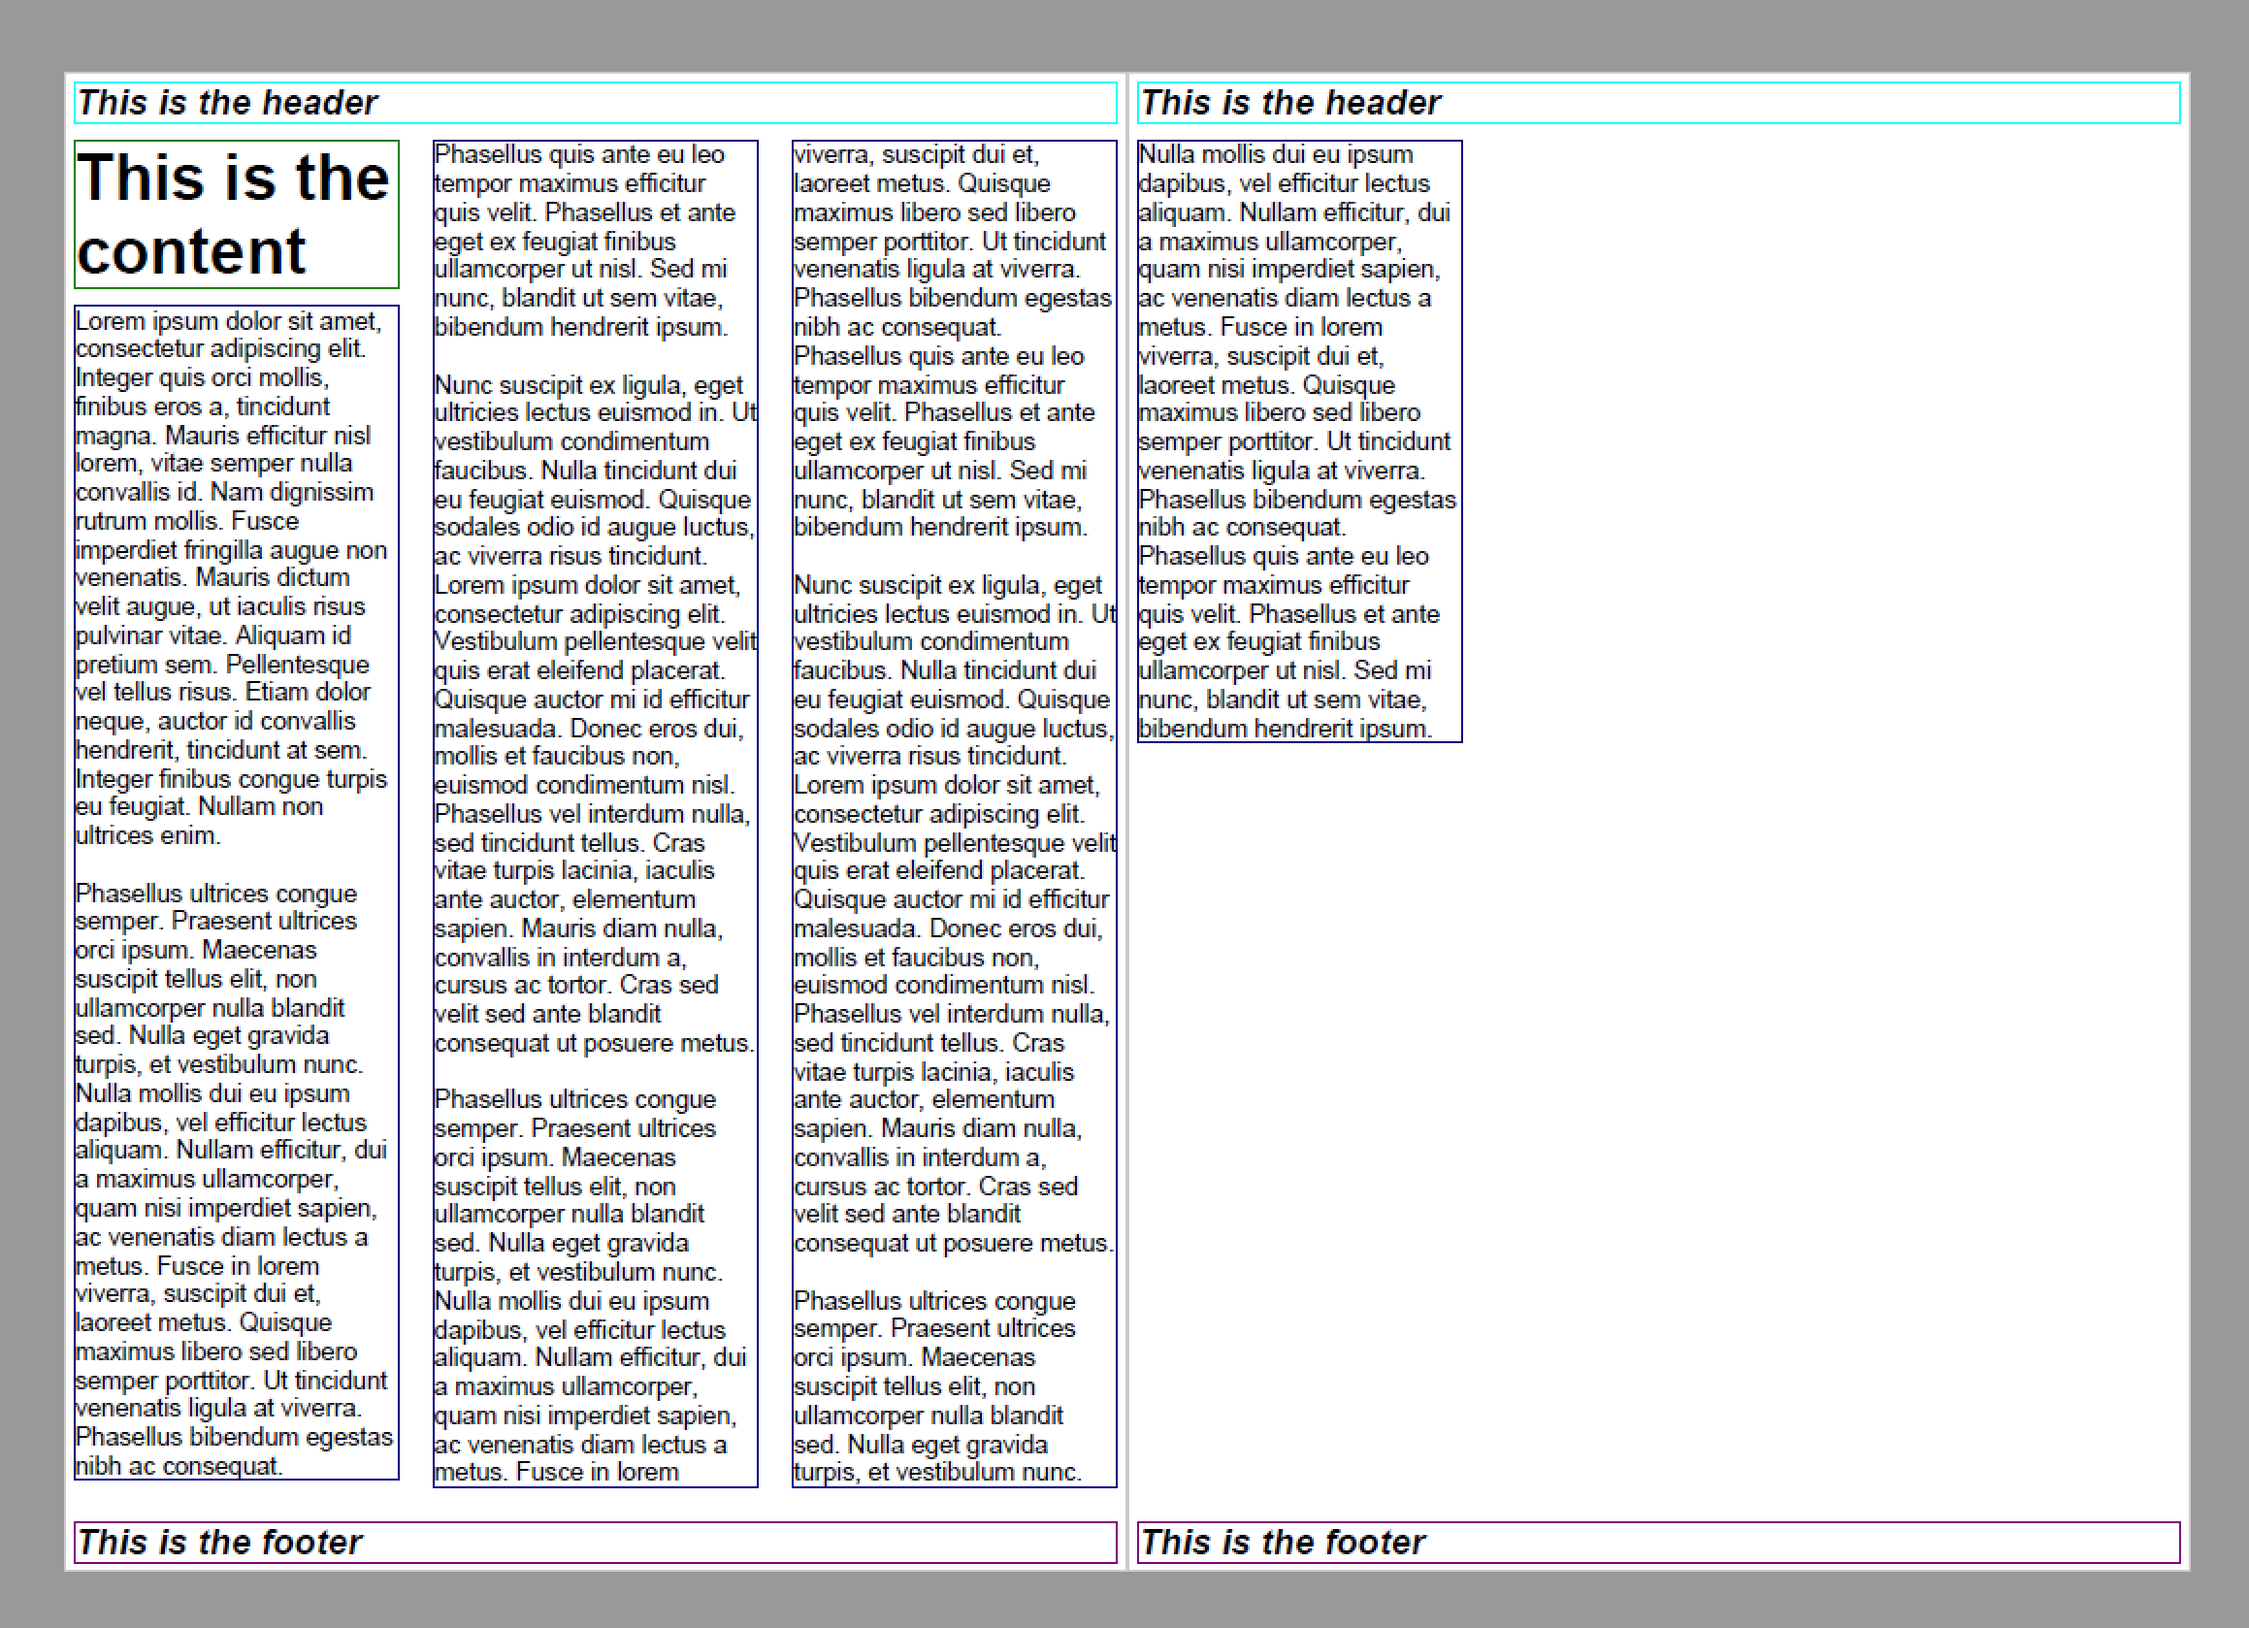
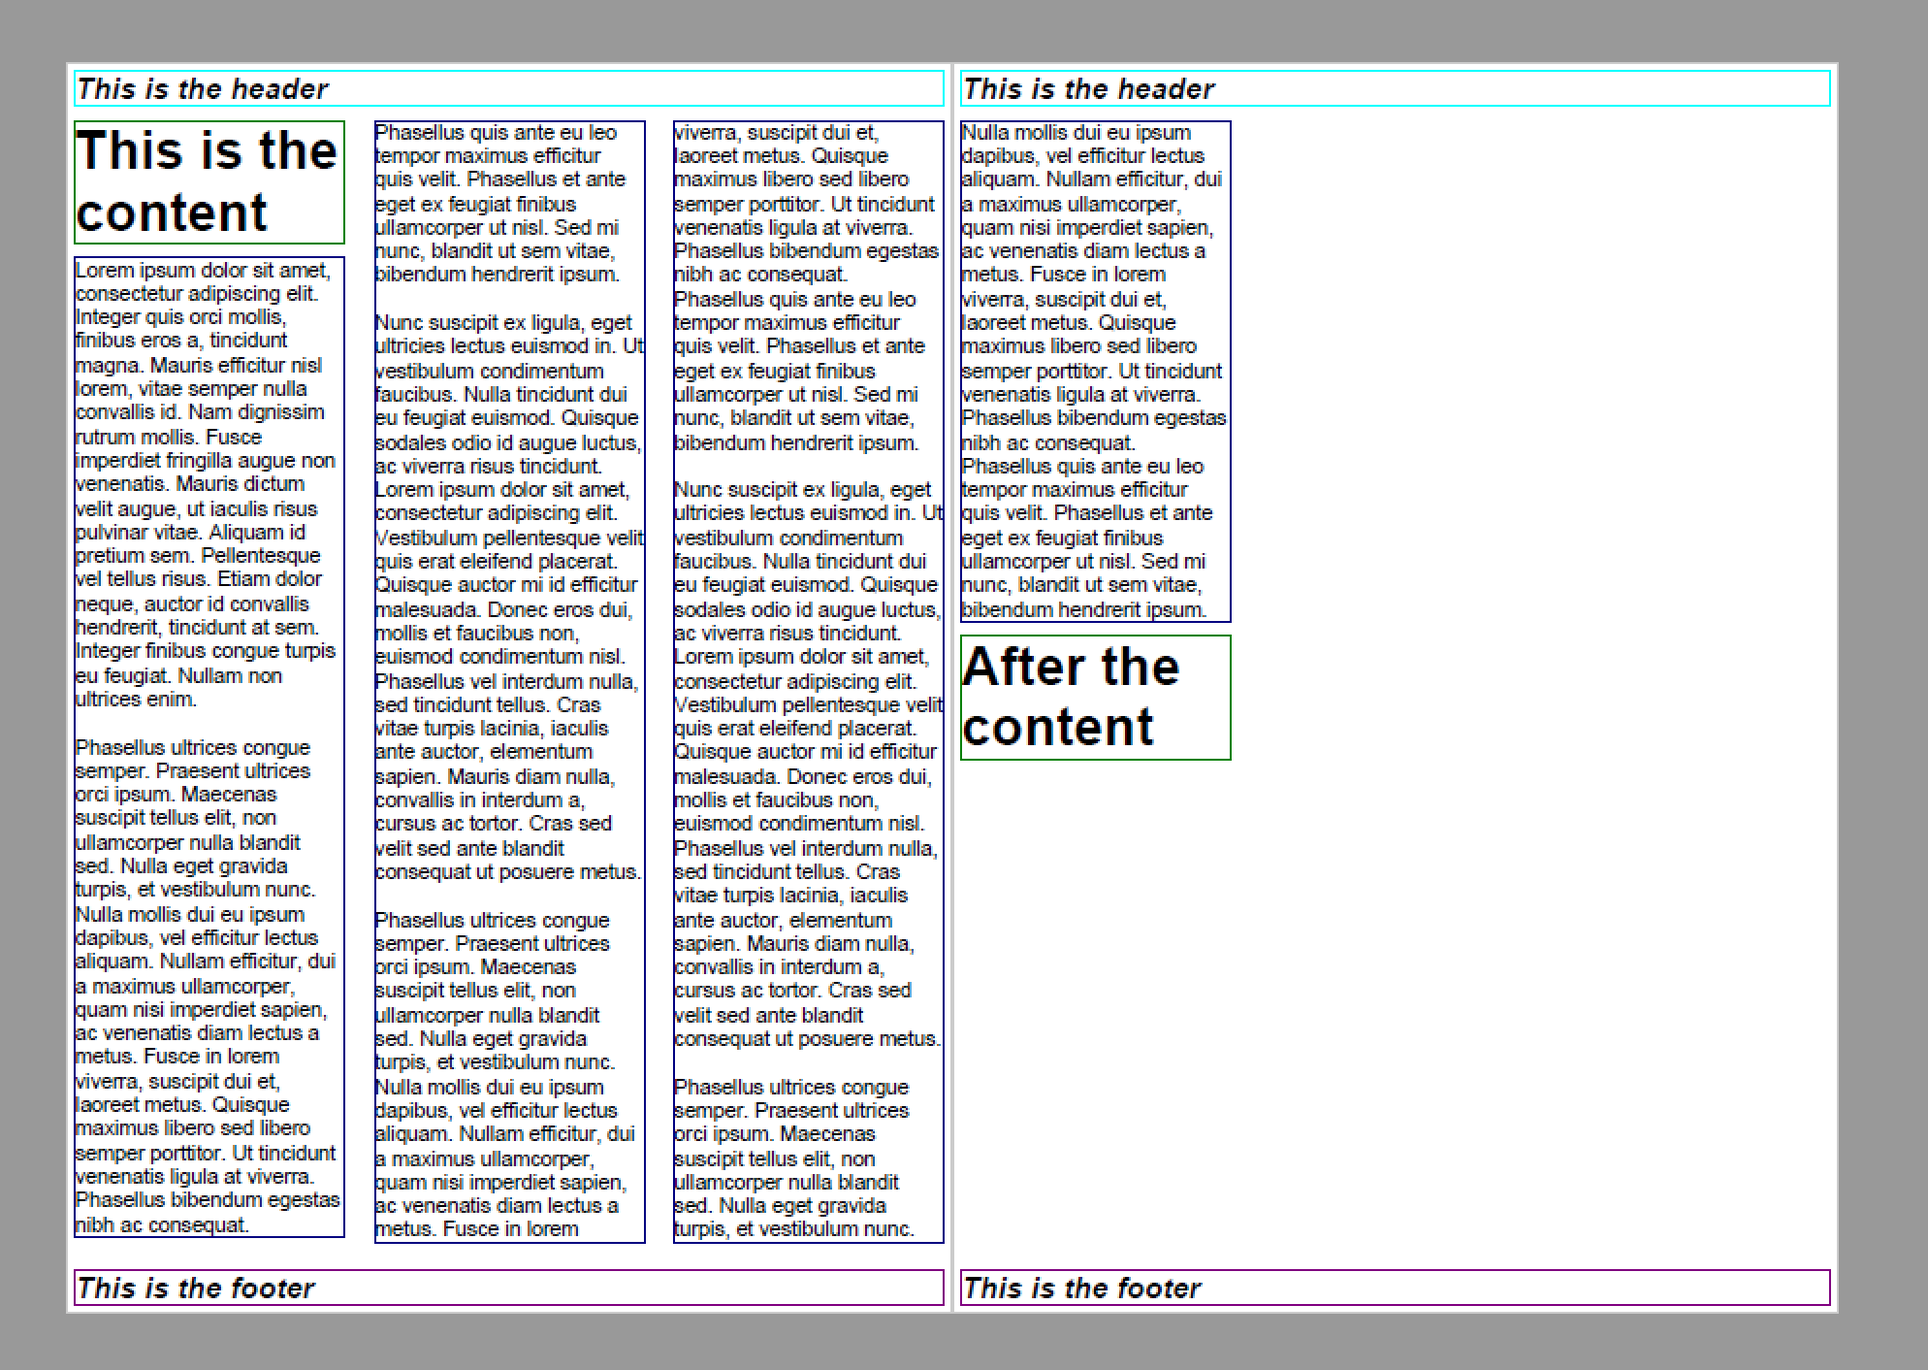
Documentation updates for columns.

Changed region(s): [[0.0312, 0.0312, 0.998, 0.966]]

diff --git a/docs/document_columns.rst b/docs/document_columns.rst
@@ -7,8 +7,8 @@ Scryber supports flowing content layout. No matter the font, content type or str
 It also supports the same with columns, at the page and container level.
 
 
-Specifying columns
-==================
+Specifying columns on Pages
+===========================
 
 All block level components (see :doc:`component_positioning`) support the use of columns.
 
@@ -42,11 +42,9 @@ column and then ulimately the next page.
             pulvinar vitae. Aliquam id pretium sem. Pellentesque vel tellus risus. Etiam dolor neque, auctor id 
             convallis hendrerit, tincidunt at sem. Integer finibus congue turpis eu feugiat. Nullam non ultrices enim.<pdf:Br/>
             <pdf:Br/>
-            Phasellus ultrices congue semper. Praesent ultrices orci ipsum. Maecenas suscipit tellus elit, 
-            non ullamcorper nulla blandit sed. Nulla eget gravida turpis, et vestibulum nunc. Nulla mollis 
-            <!-- 
-                truncated
-            -->
+            <!-- Truncated for brevity
+            .
+            . -->
             Phasellus ultrices congue semper. Praesent ultrices orci ipsum. Maecenas suscipit tellus elit,
             non ullamcorper nulla blandit sed. Nulla eget gravida turpis, et vestibulum nunc. Nulla mollis
             dui eu ipsum dapibus, vel efficitur lectus aliquam. Nullam efficitur, dui a maximus ullamcorper,
@@ -56,6 +54,7 @@ column and then ulimately the next page.
             maximus efficitur quis velit. Phasellus et ante eget ex feugiat finibus ullamcorper ut nisl. Sed mi
             nunc, blandit ut sem vitae, bibendum hendrerit ipsum.<pdf:Br/>
         </pdf:Div>
+        <pdf:H1 styles:margins="5pt" styles:border-width="1pt" styles:border-color="green" >After the content</pdf:H1>
         </Content>
         <Footer>
             <pdf:H4 styles:margins="5pt" styles:border-width="1pt" styles:border-color="purple" >This is the footer</pdf:H4>
@@ -65,7 +64,48 @@ column and then ulimately the next page.
     
     </pdf:Document>
 
-.. image images/documentcolumns1.png
+.. image:: images/documentcolumns1.png
+
+
+Here the page is set to 3 columns across the layout page. The headers are independent of the column setting, but the inner content 
+flows down the first column, and then moves to the next when no more can be fitted, and so on until it reaches the end of the layout page. 
+
+As we can overflow, a new layout page is added, and the content latout continues until the end.
+
+.. note:: The borders and any background will be based around the container and show on each column.
+
+Columns on containers
+=====================
+
+As we can see above, the headings were also part of the column layout on the page. 
+
+Scryber supports the use of columns on containers too. So our layout can be improved if we remove the columns from the page,
+and set them on the `pdf:Div` itself.
+
+This will allow the headers to be full width, with the content flowing within the columns of the container.
+
+
+.. code-block:: xml
+
+    <pdf:Section >
+        <Header>
+            <pdf:H4 styles:margins="5pt" styles:border-width="1pt" styles:border-color="aqua" >This is the header</pdf:H4>
+        </Header>
+        <Content>
+            <pdf:H1 styles:margins="5pt" styles:border-width="1pt" styles:border-color="green" >This is the content</pdf:H1>
+            <pdf:Div styles:column-count="3" styles:margins="5pt" styles:font-size="14pt" styles:border-width="1pt" styles:border-color="navy">
+
+
+.. image:: images/documentcolumns2.png
+
+
+Column Widths
+==============
+
+
+Balanced Columns
+================
+
 
 Nested columns
 ==============
@@ -74,7 +114,3 @@ Nested columns
 
 Breaking columns
 =================
-
-
-Column Widths
-=============
